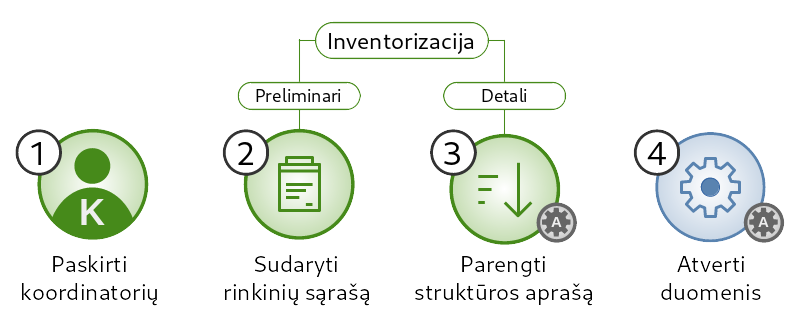
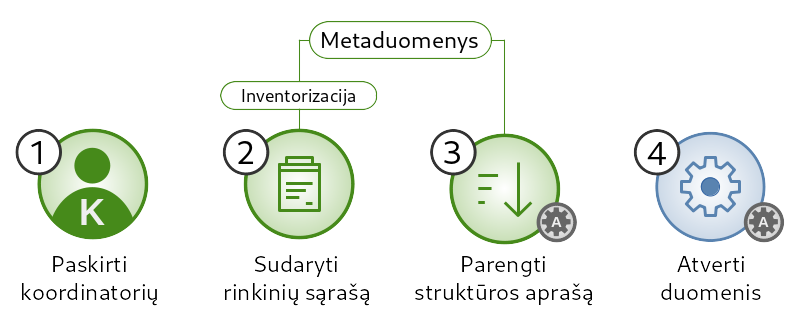
Change concept of what is data invetorying

diff --git a/docs/atverimas.rst b/docs/atverimas.rst
@@ -120,16 +120,14 @@ atvirų duomenų portaluose.
 
 .. _inventory:
 
-Inventorizacija
-===============
+Metaduomenys
+============
 
-Duomenų inventorizacija susideda iš dviejų dalių:
+Metaduomenų rengimas susideda iš dviejų dalių:
 
-- :ref:`Duomenų rinkinių sąrašo sudarymas <preliminari-inventorizacija>`
-  (preliminari inventorizacija),
+- :ref:`Duomenų rinkinių sąrašo sudarymas <preliminari-inventorizacija>`,
 
-- :ref:`Duomenų struktūros aprašų parengimas <detali-inventorizacija>` (detali
-  inventorizacija).
+- :ref:`Duomenų struktūros aprašų parengimas <detali-inventorizacija>`.
 
 Duomenų struktūros aprašų parengimas yra pati sudėtingiausia dalis, todėl
 rekomenduojama pirmiausiai susidaryti rinkinių sąrašus, o po to esant realiam
@@ -358,11 +356,8 @@ Atveriant duomenis savarankiškai įstaiga turi tokius variantus:
 - Duomenis jau yra atvėrusi arba duomenis atveria savo priemonėmis ir
   publikuoja savo infrastruktūroje.
 
-Nepriklausomai nuo pasirinkto varianto, įstaiga turi pasidaryti :ref:`pilną
-inventorizaciją <inventory>`.
-
-Jei įstaiga jau yra atvėrusi duomenis, tada užtenka pasidaryti tik
-:ref:`inventorizaciją <inventory>`.
+Nepriklausomai nuo pasirinkto varianto, įstaiga turi :ref:`pilnai parengti
+metaduomenis <inventory>`.
 
 
 Atvėrimas per rangovą
